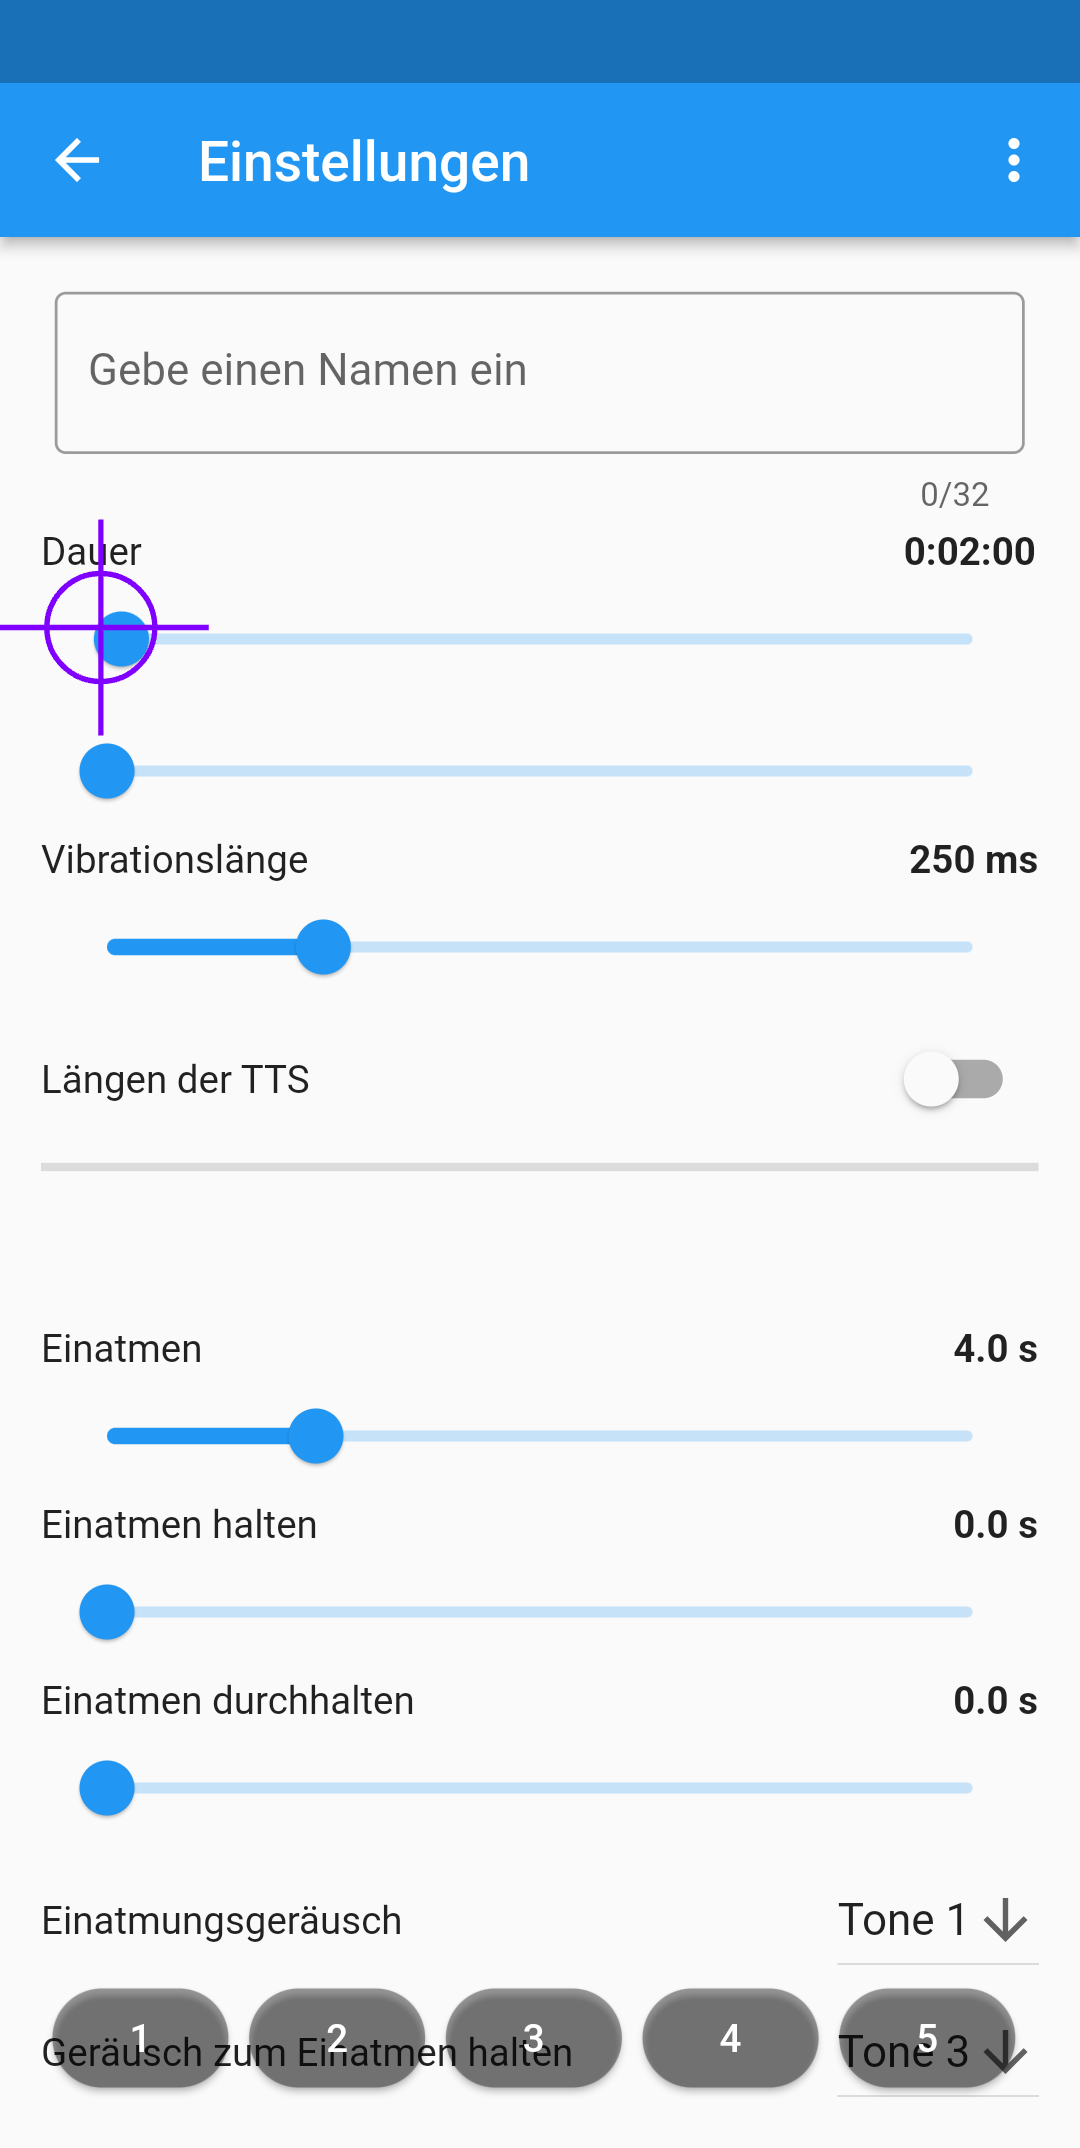
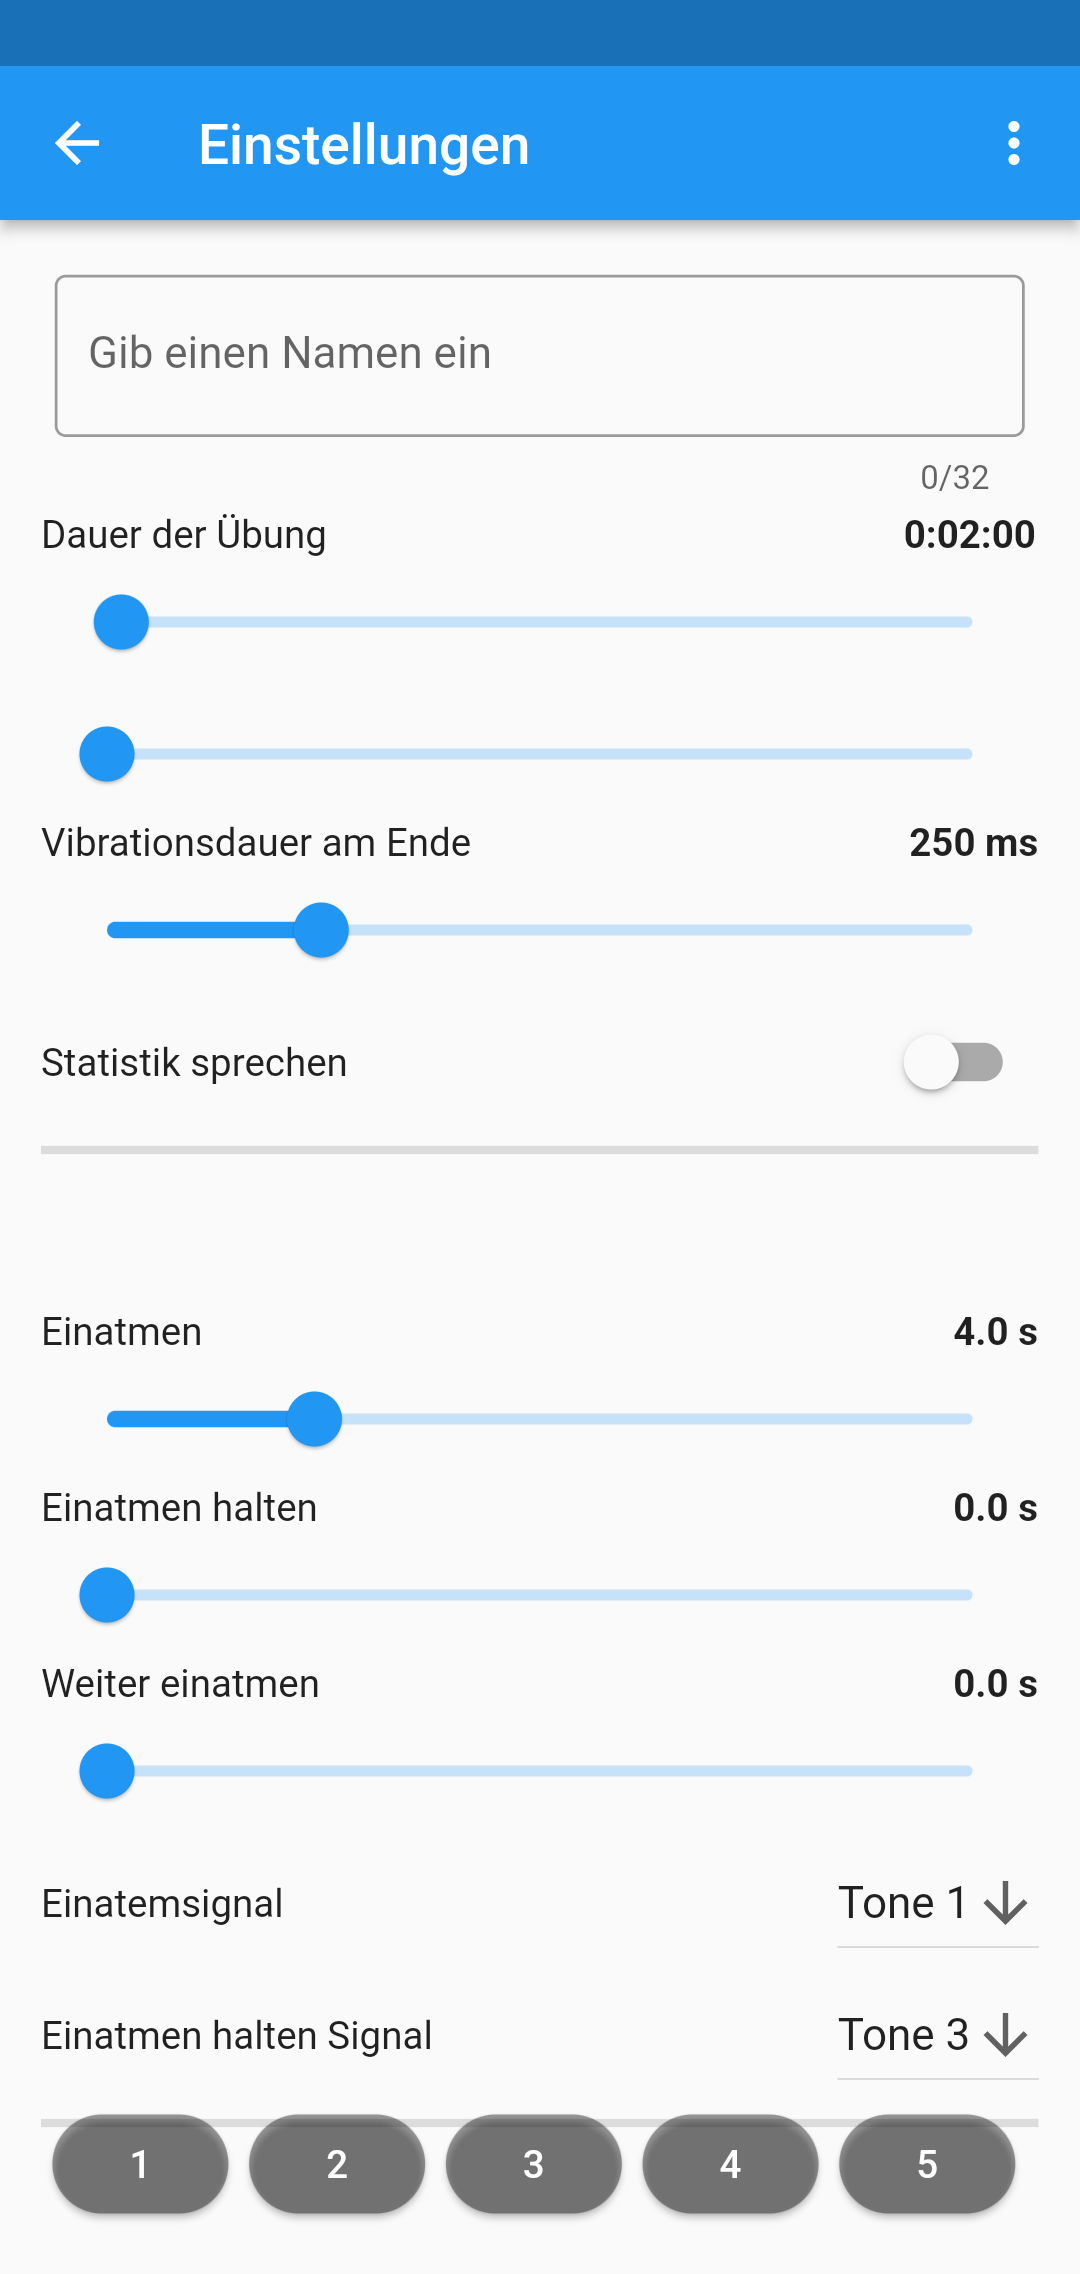
Update German screenshots

diff --git a/integration_test/demo_test.dart b/integration_test/demo_test.dart
@@ -20,9 +20,9 @@ import 'screenshot.dart';
 
 // ignore_for_file: dead_code
 const bool demoRunning = true,
-    demoSessions = false,
-    demoCalendar = false,
-    demoPreferences = false;
+    demoSessions = true,
+    demoCalendar = true,
+    demoPreferences = true;
 
 const Duration wait = Duration(milliseconds: 500);
 const Duration snackbar = Duration(milliseconds: 4000);
